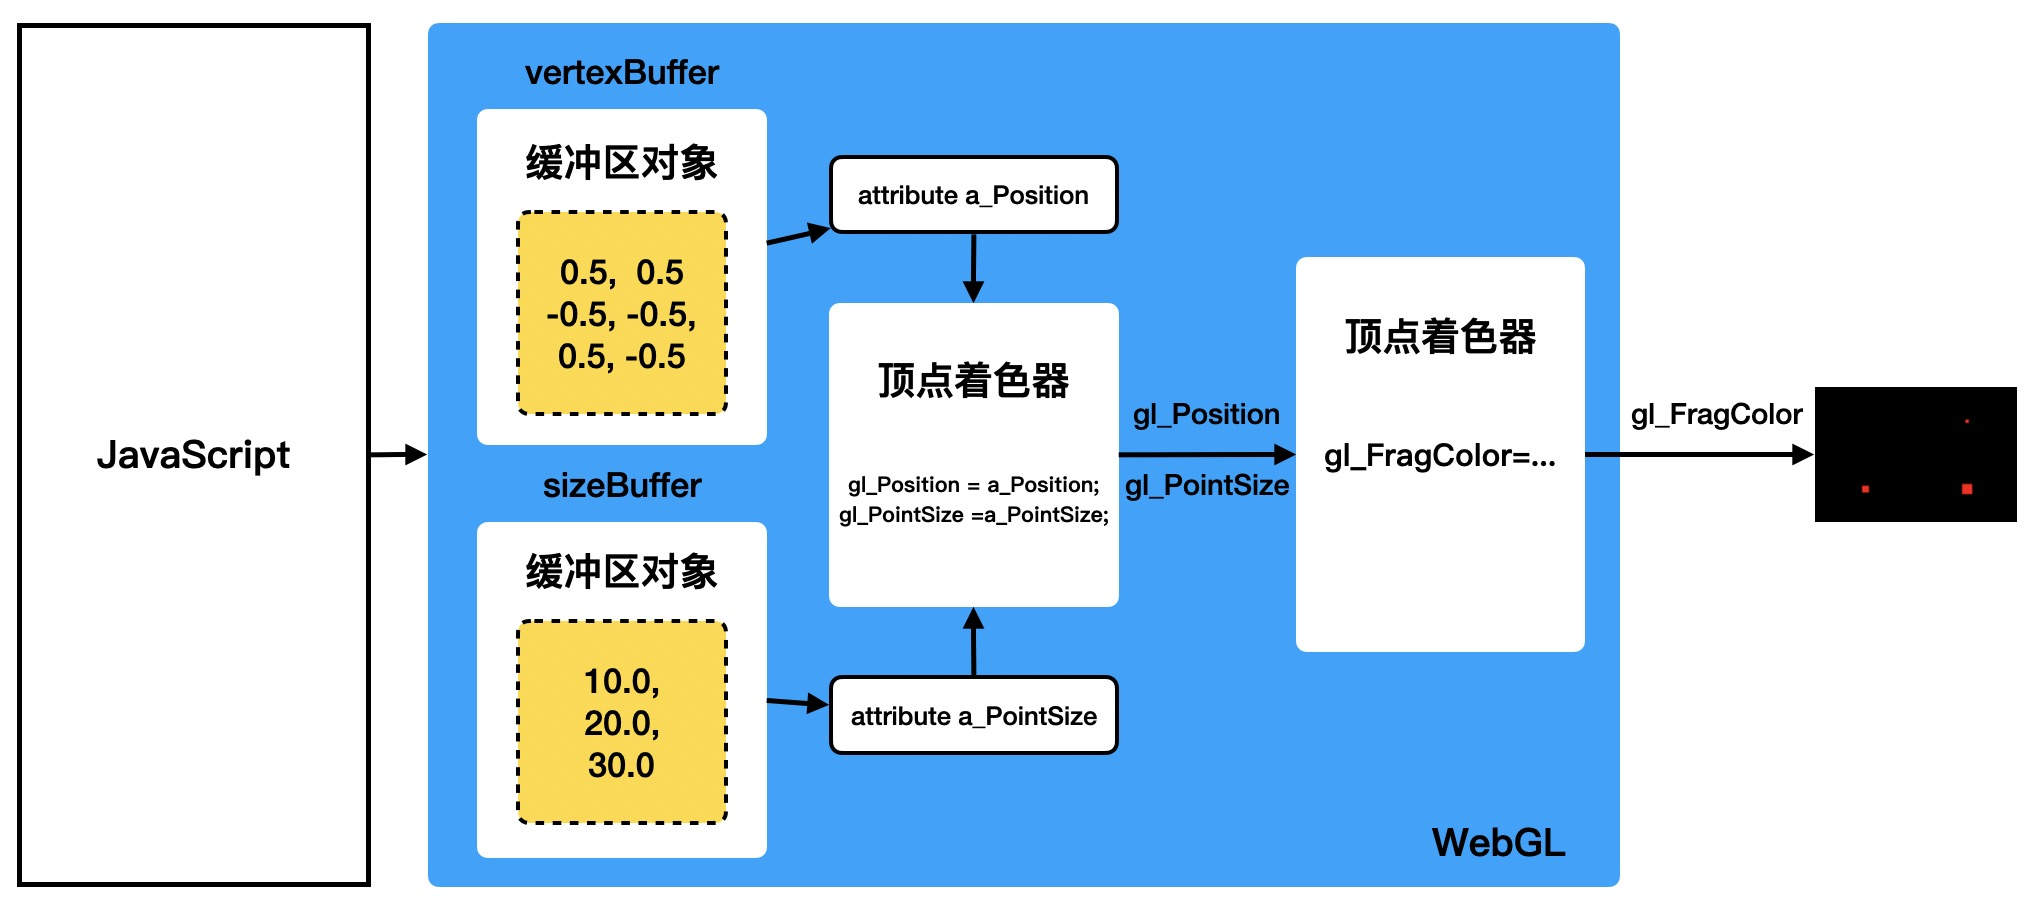
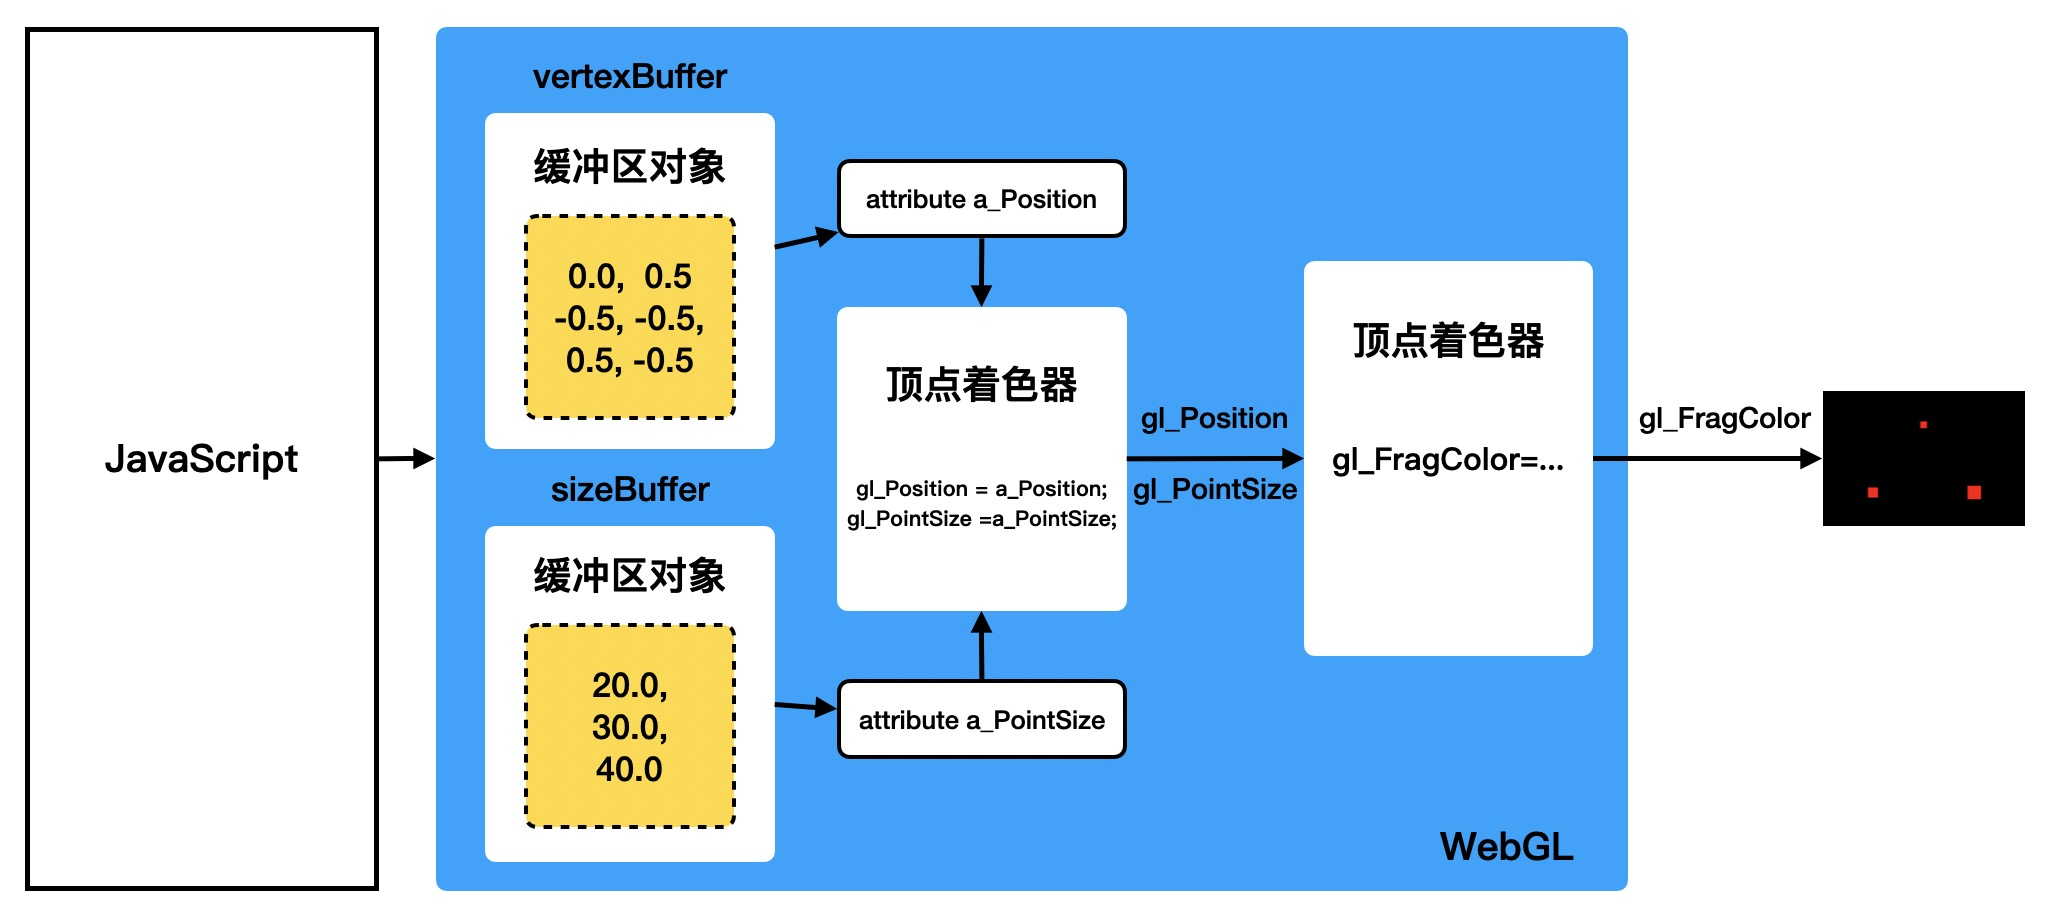
feat: 更新流程图

diff --git a/book/lesson19/index.html b/book/lesson19/index.html
@@ -6,7 +6,7 @@
     <meta http-equiv="X-UA-Compatible" content="IE=edge">
     <meta name="viewport" content="width=device-width, initial-scale=1.0">
     <script src="../utils/initShaders.js"></script>
-    <title>WebGL lesson16</title>
+    <title>WebGL lesson19</title>
 </head>
 
 <body>
@@ -15,17 +15,23 @@
     <!-- 顶点着色器 -->
     <script id="shader-vs" type="x-shader/x-vertex">
     attribute vec4 a_Position;
-    attribute float a_PointSize;
+    attribute vec4 a_Color;
+
+    varying vec4 v_Color;
     void main() {
         gl_Position = a_Position;
-        gl_PointSize = a_PointSize;
+        gl_PointSize = 10.0;
+        v_Color = a_Color;
     }
     </script>
 
     <!-- 片元着色器 -->
     <script id="shader-fs" type="x-shader/x-fragment">
+    precision mediump float;
+
+    varying vec4 v_Color;
     void main() {
-        gl_FragColor = vec4(1.0, 0.0, 0.0, 1.0);
+        gl_FragColor = v_Color;
     }    
     </script>
 
@@ -41,43 +47,29 @@
         gl.clearColor(0.0, 0.0, 0.0, 1.0);
         gl.clear(gl.COLOR_BUFFER_BIT);
 
-        var vertices = new Float32Array([
-            0.0, 0.5,
-            -0.5, -0.5,
-            0.5, -0.5
+        const verticesColors = new Float32Array([
+            0.0, 0.5, 1.0, 0.0, 0.0,
+            -0.5, -0.5, 0.0, 1.0, 0.0,
+            0.5, -0.5, 0.0, 0.0, 1.0
         ]);
-
-        const vertexBuffer = gl.createBuffer();
-        gl.bindBuffer(gl.ARRAY_BUFFER, vertexBuffer);
-        gl.bufferData(gl.ARRAY_BUFFER, vertices, gl.STATIC_DRAW);
-
+        
+        const vertexSizeBuffer = gl.createBuffer();
+        gl.bindBuffer(gl.ARRAY_BUFFER, vertexSizeBuffer);
+        gl.bufferData(gl.ARRAY_BUFFER, verticesColors, gl.STATIC_DRAW);
+        
         const a_Position = gl.getAttribLocation(gl.program, 'a_Position');
+        const a_Color = gl.getAttribLocation(gl.program, 'a_Color');
+        
+        const fSize = verticesColors.BYTES_PER_ELEMENT;
 
-        gl.vertexAttribPointer(a_Position, 2, gl.FLOAT, false, 0, 0);
+        gl.vertexAttribPointer(a_Position, 2, gl.FLOAT, false, fSize * 5, 0);
         gl.enableVertexAttribArray(a_Position);
 
-        const a_PointSize = gl.getAttribLocation(gl.program, 'a_PointSize');
-        const points = new Float32Array([
-            20.0, 30.0, 40.0
-        ]);        
-
-        // 创建缓冲区对象
-        const sizeBuffer = gl.createBuffer();
-
-        // 将缓冲区对象绑定到目标
-        gl.bindBuffer(gl.ARRAY_BUFFER, sizeBuffer);
-
-        // 向缓冲区中写入数据
-        gl.bufferData(gl.ARRAY_BUFFER, points, gl.STATIC_DRAW);
-
-        // 将缓冲区对象分配给 a_PointSize 变量
-        gl.vertexAttribPointer(a_PointSize, 1, gl.FLOAT, false, 0, 0);
-
-        // 连接 a_PointSize 变量与分配给它的缓冲区对象
-        gl.enableVertexAttribArray(a_PointSize);
+        gl.vertexAttribPointer(a_Color, 3, gl.FLOAT, false, fSize * 5, fSize * 2);
+        gl.enableVertexAttribArray(a_Color);
 
         // 绘制三个点
-        gl.drawArrays(gl.POINTS, 0, 3);
+        gl.drawArrays(gl.TRIANGLES, 0, 3);
     </script>
 </body>
 

diff --git a/book/lesson18/index.html b/book/lesson18/index.html
@@ -20,7 +20,7 @@
     varying vec4 v_Color;
     void main() {
         gl_Position = a_Position;
-        gl_PointSize = 10.0;
+        gl_PointSize = 30.0;
         v_Color = a_Color;
     }
     </script>

diff --git a/README.md b/README.md
@@ -55,6 +55,8 @@ WebGL 学习，偏向0基础，本书大部分知识来源于 《WebGL 编程指
 
 18、[顶点着色器 到 片元着色器 之间的数据传递: varying 变量](./book/lesson18/)
 
+19、[彩色三角形](./book/lesson19/)
+
 ## 附录
 
 临时目录，后续再迁移到正文。
